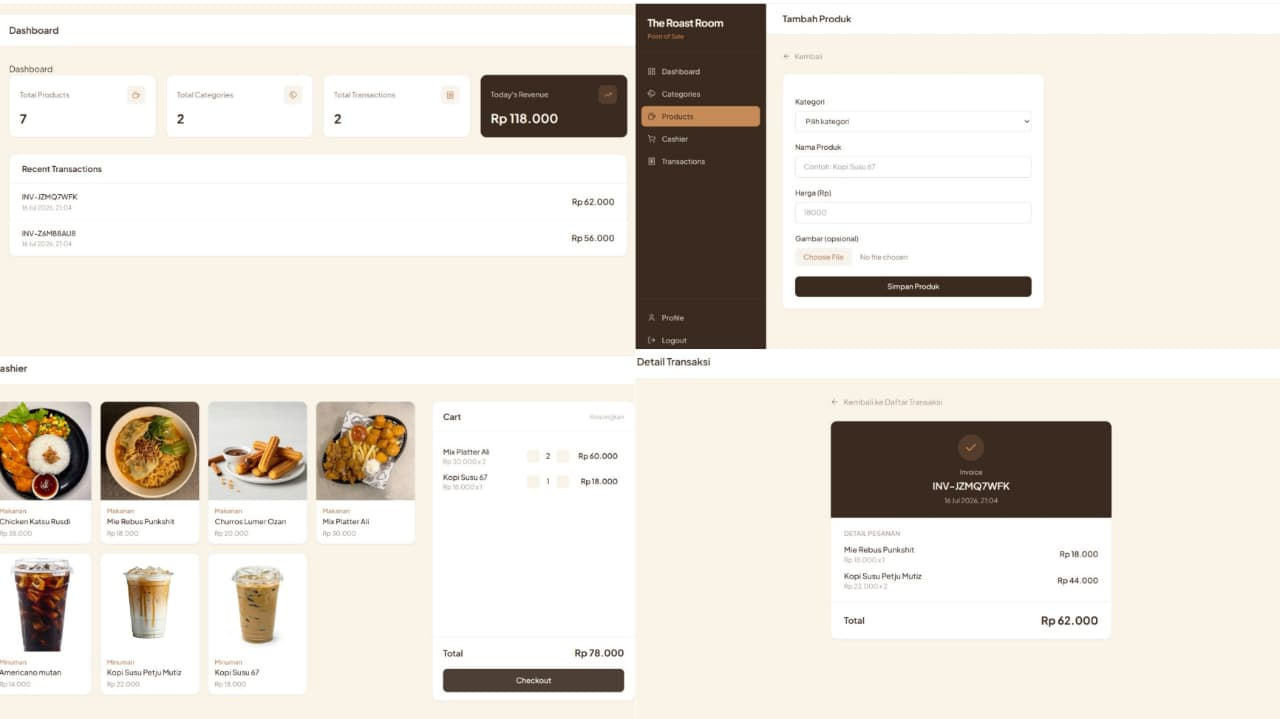
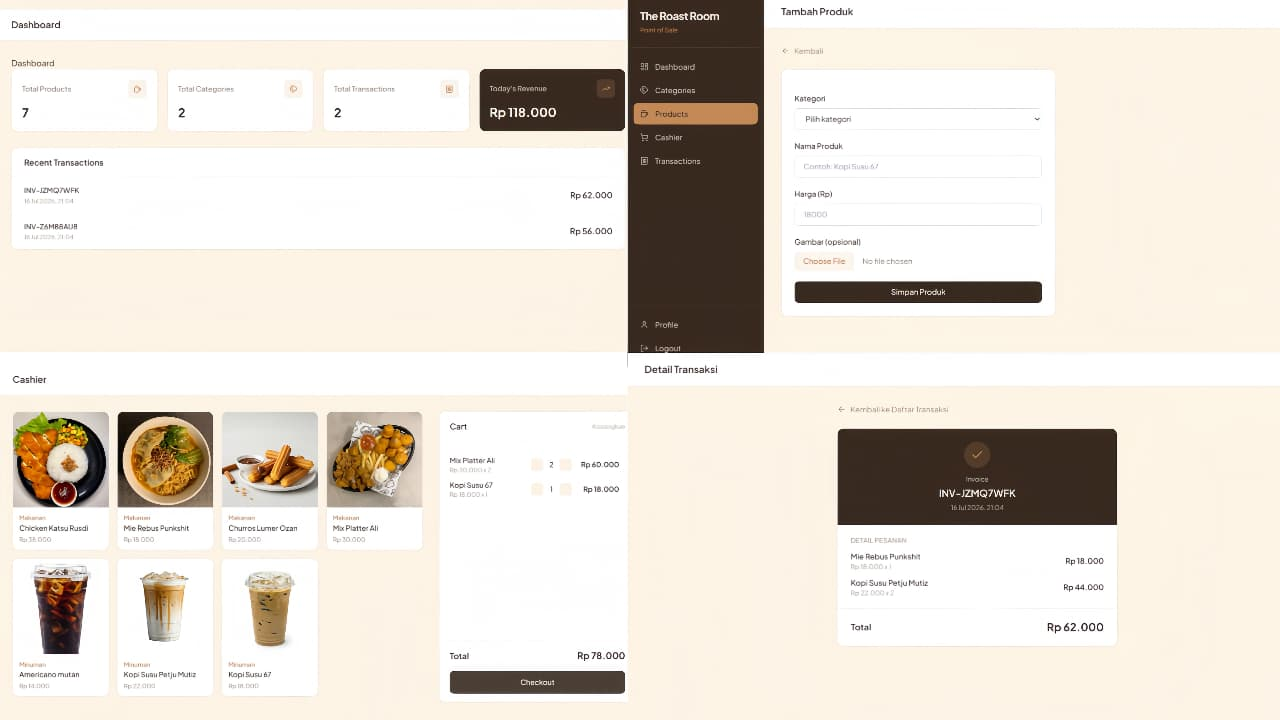
Update foto project dan perbaikan UI

diff --git a/src/data/projects.ts b/src/data/projects.ts
@@ -26,20 +26,20 @@ export const projects: Project[] = [
     title: "TaskFlow ToDo",
     overview: "A modern, minimalist to-do application focusing on smooth user experience and quick task management.",
     image: "/images/projects/taskflow-todo.jpg",
-    techStack: ["HTML5", "CSS3", "JavaScript"],
-    role: "Frontend Developer",
+    techStack: ["Next.js", "React", "Tailwind CSS", "TypeScript", "Framer Motion", "shadcn/ui", "MySQL", "Vercel"],
+    role: "Full-Stack Developer",
     status: "Completed",
     futureImprovements: ["Advanced Analytics Dashboard", "Real-Time Collaboration Engine", "Drag and drop sorting"],
   },
   {
-    id: "personal-portfolio",
-    title: "Personal Portfolio",
-    overview: "A premium personal portfolio website designed to showcase projects, technical expertise, certifications, and professional identity.",
+    id: "Photobooth Web App",
+    title: "Photobooth Web App",
+    overview: "PixelTide is a 100% client-side web photobooth with an 8-bit Deep Sea Pixel theme. Users can capture, apply creative retro frames, and download photo strips directly in-browser, ensuring full privacy and zero server costs.",
     image: "/images/projects/personal-portfolio.jpg",
-    techStack: ["Next.js 15", "React", "TypeScript", "Tailwind CSS", "Framer Motion", "GSAP", "Lenis", "shadcn/ui", "Lucide React", "Vercel"],
+    techStack: ["Next.js 15", "React", "TypeScript", "Tailwind CSS", "Framer Motion", "shadcn/ui", "Lucide React", "Vercel"],
     role: "UI/UX Designer & Fullstack Developer",
     status: "Completed",
-    futureImprovements: ["Certificate Filter & Categorization", "Interactive Skill Card Animations", "Dark/Light Mode Toggle"],
+    futureImprovements: ["Multi-Format & Individual Downloads", "Custom 8-bit Frame Builder", "Dynamic Themes & Soundscapes"],
   }
 ];
 
